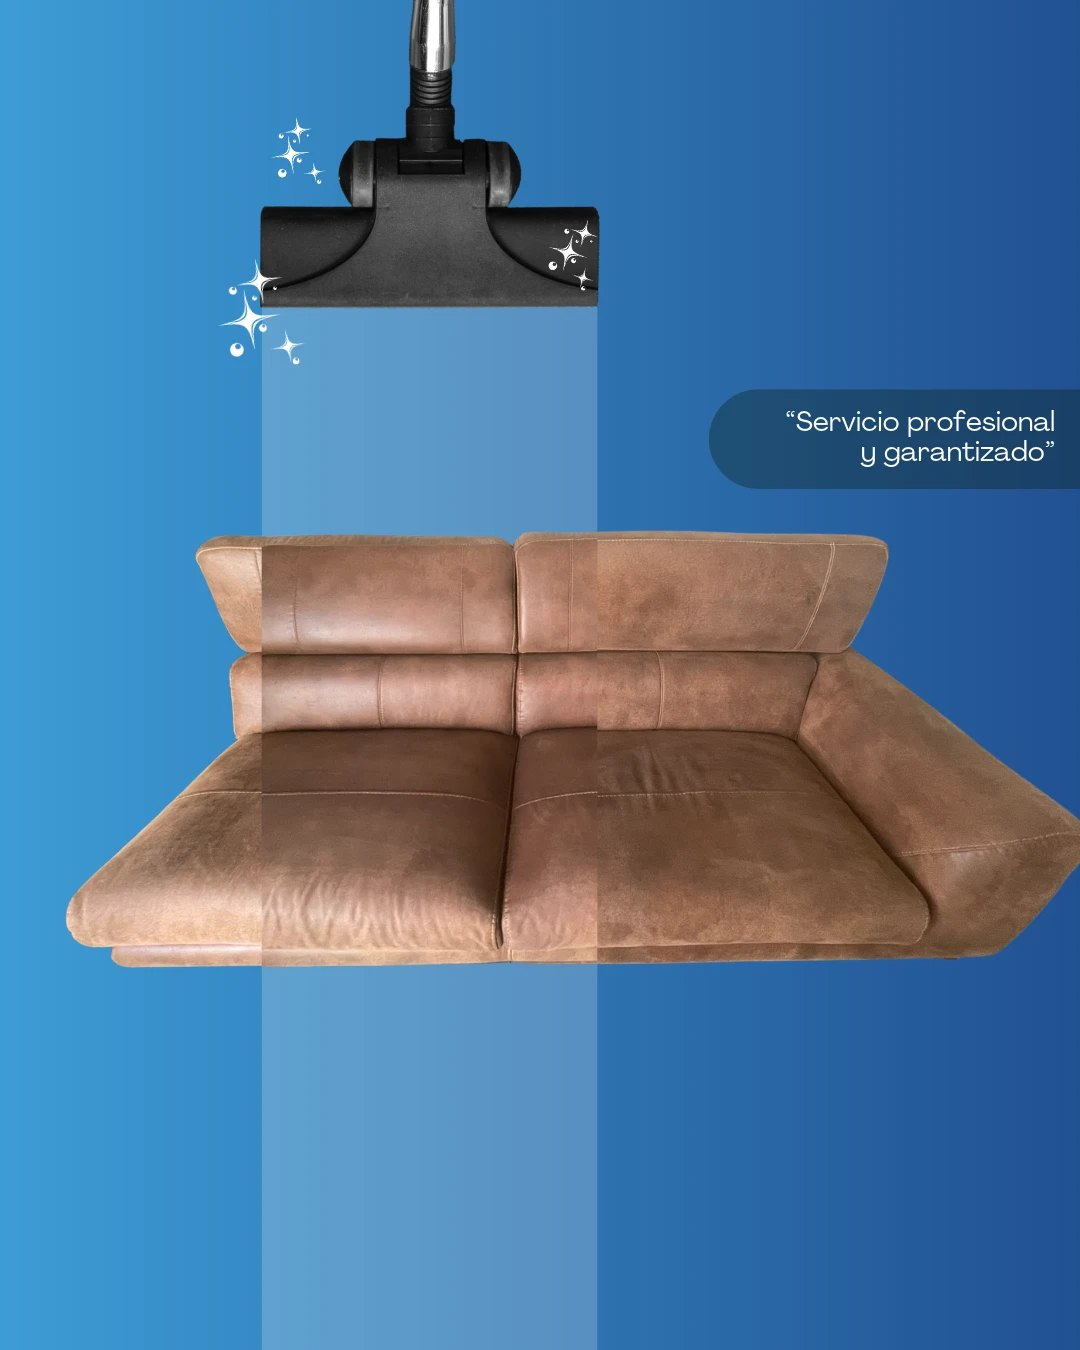
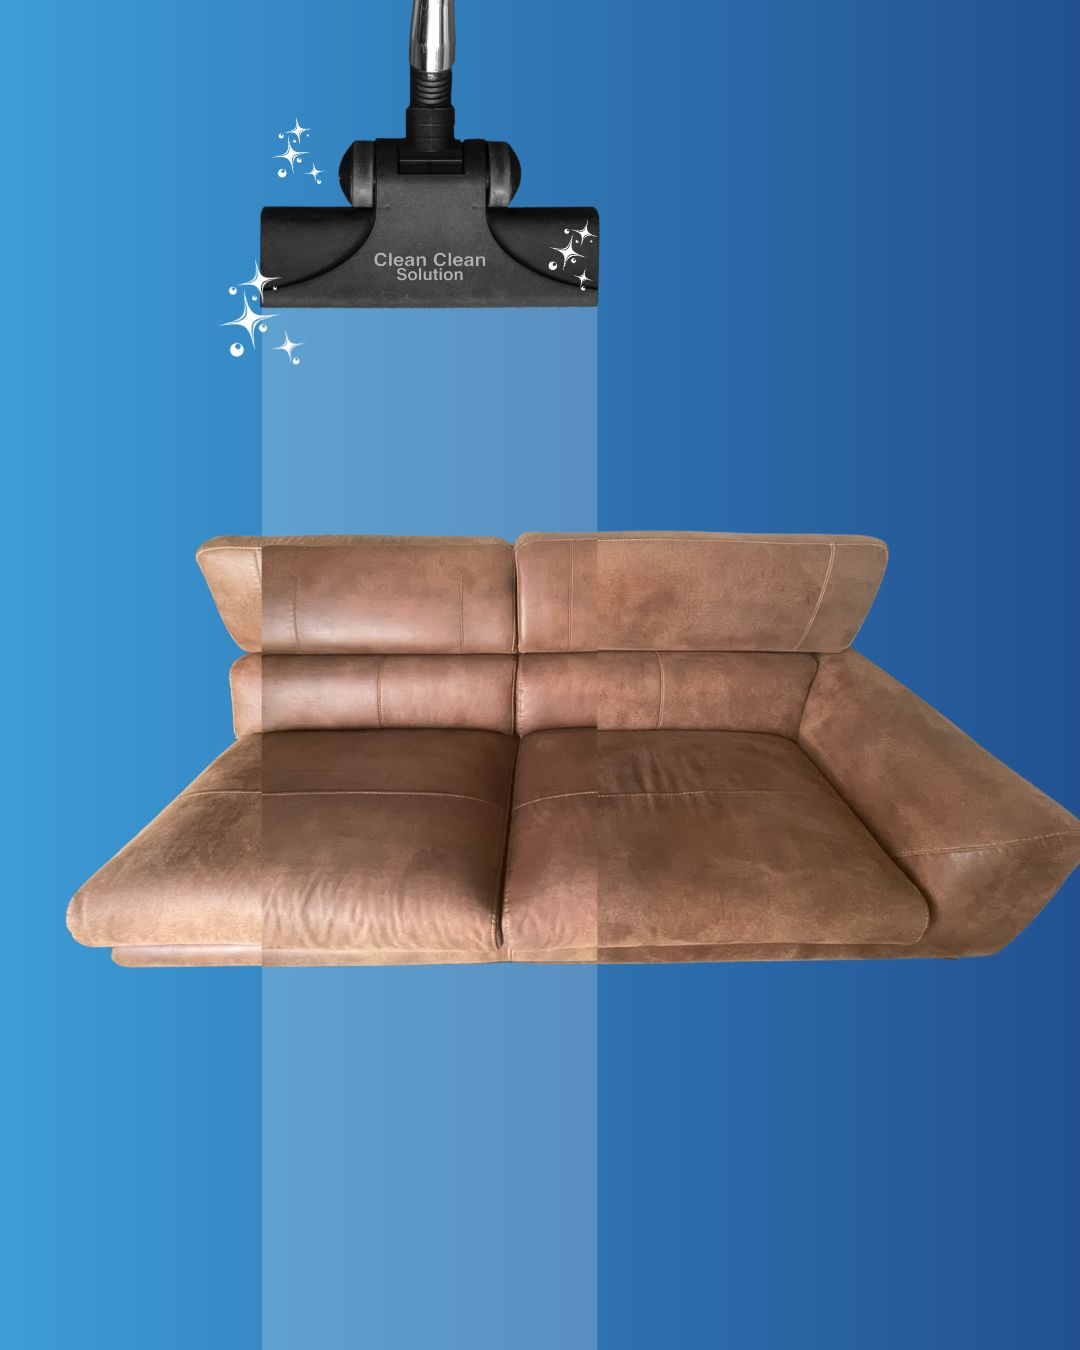
Convierte la imagen del hero en un carrusel de tres fotos que cambia cada 15 segundos
Incluye puntos de navegacion, boton de pausa, pausa al pasar el mouse o con la pestana oculta, y gesto de deslizar en celular.

Changed region(s): [[0.6417, 0.28, 1.0, 0.3733], [0.3667, 0.1867, 0.4583, 0.2178]]

diff --git a/index.html b/index.html
@@ -47,7 +47,7 @@
   <link href="https://fonts.googleapis.com/css2?family=Inter:wght@400;500;600&family=Montserrat:wght@700;800&display=swap" rel="stylesheet">
 
   <!-- Estilos (cambia el número de versión cada vez que edites el archivo) -->
-  <link rel="stylesheet" href="css/styles.css?v=1.0.4">
+  <link rel="stylesheet" href="css/styles.css?v=1.0.5">
 
   <!-- Datos estructurados: negocio local -->
   <script type="application/ld+json">
@@ -356,6 +356,12 @@
       <path d="M9 17h6"/>
       <circle cx="17" cy="17" r="2"/>
     </symbol>
+    <symbol id="i-pause" viewBox="0 0 24 24">
+      <path d="M8 5v14"/><path d="M16 5v14"/>
+    </symbol>
+    <symbol id="i-play" viewBox="0 0 24 24">
+      <path d="m7 4 13 8-13 8z"/>
+    </symbol>
     <symbol id="i-tiktok" viewBox="0 0 24 24">
       <path d="M9 12a4 4 0 1 0 4 4V3a5 5 0 0 0 5 5"/>
     </symbol>
@@ -457,15 +463,42 @@
         </div>
 
         <figure class="hero__media">
-          <div class="hero__frame">
-            <!-- Ilustración de respaldo: queda oculta detrás de la foto real -->
+          <div class="hero__frame hero-slider" data-slider data-interval="15000"
+               role="group" aria-roledescription="carrusel" aria-label="Resultados de lavado de Clean Clean Solution">
+            <!-- Ilustración de respaldo: queda oculta detrás de las fotos reales -->
             <div class="hero__art" aria-hidden="true">
               <svg viewBox="0 0 400 300"><use href="#art-sofa"/></svg>
             </div>
-            <!-- FOTO HERO: assets/img/hero-servicio.jpg (vertical 4:5, 1080 x 1350 px) -->
-            <img src="assets/img/hero-servicio.jpg" width="1080" height="1350"
-                 alt="Sofá de piel con una franja limpia bajo la boquilla de lavado: servicio profesional y garantizado de Clean Clean Solution"
-                 fetchpriority="high" decoding="async" data-fallback>
+
+            <!-- DIAPOSITIVAS (vertical 4:5, 1080 x 1350 px). Para agregar otra, duplica un bloque
+                 .slide con su foto y suma un punto en .slider__dots. Cambian cada 15 segundos. -->
+            <div class="slide is-active" role="group" aria-roledescription="diapositiva" aria-label="1 de 3">
+              <img src="assets/img/hero-servicio.jpg" width="1080" height="1350"
+                   alt="Sofá de piel con una franja recién lavada bajo la boquilla de aspirado de Clean Clean Solution"
+                   fetchpriority="high" decoding="async" data-fallback>
+            </div>
+            <div class="slide" role="group" aria-roledescription="diapositiva" aria-label="2 de 3">
+              <img src="assets/img/hero-2.jpg" width="1080" height="1350"
+                   alt="Sillón de tela gris con una franja limpia donde pasó la boquilla de lavado, junto a la zona sin lavar"
+                   loading="lazy" decoding="async">
+            </div>
+            <div class="slide" role="group" aria-roledescription="diapositiva" aria-label="3 de 3">
+              <img src="assets/img/hero-3.jpg" width="1080" height="1350"
+                   alt="Colchón con una franja limpia y blanca que contrasta con las manchas del resto de la superficie"
+                   loading="lazy" decoding="async">
+            </div>
+
+            <div class="slider__controls">
+              <div class="slider__dots" role="group" aria-label="Elegir foto">
+                <button class="slider__dot is-active" type="button" aria-label="Ver foto 1 de 3" aria-current="true"></button>
+                <button class="slider__dot" type="button" aria-label="Ver foto 2 de 3"></button>
+                <button class="slider__dot" type="button" aria-label="Ver foto 3 de 3"></button>
+              </div>
+              <button class="slider__pause" type="button" aria-label="Pausar presentación">
+                <svg class="icon slider__icon-pause" aria-hidden="true"><use href="#i-pause"/></svg>
+                <svg class="icon slider__icon-play" aria-hidden="true"><use href="#i-play"/></svg>
+              </button>
+            </div>
           </div>
 
           <figcaption class="float-card float-card--a">
@@ -1188,6 +1221,6 @@
   </a>
 
   <!-- Scripts (cambia el número de versión cada vez que edites el archivo) -->
-  <script src="js/script.js?v=1.0.1" defer></script>
+  <script src="js/script.js?v=1.0.2" defer></script>
 </body>
 </html>

diff --git a/js/script.js b/js/script.js
@@ -491,4 +491,100 @@
      ------------------------------------------------------------------------ */
   var yearNode = document.getElementById('year');
   if (yearNode) { yearNode.textContent = String(new Date().getFullYear()); }
+
+  /* ------------------------------------------------------------------------
+     10. Carrusel del hero
+     Cambia de foto cada 15 segundos (data-interval). Se detiene al pasar el
+     mouse o al enfocar un control, cuando la pestaña no está visible o si la
+     persona lo pausa. Con "reducir movimiento" activado no avanza solo.
+     ------------------------------------------------------------------------ */
+  toArray(document.querySelectorAll('[data-slider]')).forEach(function (slider) {
+    var slides = toArray(slider.querySelectorAll('.slide'));
+    var dots = toArray(slider.querySelectorAll('.slider__dot'));
+    var pauseButton = slider.querySelector('.slider__pause');
+    var interval = parseInt(slider.getAttribute('data-interval'), 10) || 15000;
+    var current = 0;
+    var timer = null;
+    var userPaused = prefersReducedMotion;
+    var hovering = false;
+    var focusing = false;
+
+    if (slides.length < 2) {
+      var controls = slider.querySelector('.slider__controls');
+      if (controls) { controls.hidden = true; }
+      return;
+    }
+
+    function isRunning() {
+      return !userPaused && !hovering && !focusing && !document.hidden;
+    }
+
+    function stop() {
+      if (timer) { window.clearTimeout(timer); timer = null; }
+    }
+
+    function schedule() {
+      stop();
+      if (isRunning()) {
+        timer = window.setTimeout(function () { show(current + 1, false); }, interval);
+      }
+    }
+
+    function show(index, fromUser) {
+      current = (index + slides.length) % slides.length;
+      slides.forEach(function (slide, i) {
+        slide.classList.toggle('is-active', i === current);
+        slide.setAttribute('aria-hidden', i === current ? 'false' : 'true');
+      });
+      dots.forEach(function (dot, i) {
+        dot.classList.toggle('is-active', i === current);
+        if (i === current) { dot.setAttribute('aria-current', 'true'); } else { dot.removeAttribute('aria-current'); }
+      });
+      schedule();
+    }
+
+    function setPaused(paused) {
+      userPaused = paused;
+      slider.classList.toggle('is-paused', paused);
+      if (pauseButton) {
+        pauseButton.setAttribute('aria-label', paused ? 'Reanudar presentación' : 'Pausar presentación');
+      }
+      slider.setAttribute('aria-live', paused ? 'polite' : 'off');
+      schedule();
+    }
+
+    dots.forEach(function (dot, i) {
+      dot.addEventListener('click', function () { show(i, true); });
+    });
+
+    if (pauseButton) {
+      pauseButton.addEventListener('click', function () { setPaused(!userPaused); });
+    }
+
+    slider.addEventListener('mouseenter', function () { hovering = true; stop(); });
+    slider.addEventListener('mouseleave', function () { hovering = false; schedule(); });
+    slider.addEventListener('focusin', function () { focusing = true; stop(); });
+    slider.addEventListener('focusout', function () { focusing = false; schedule(); });
+    document.addEventListener('visibilitychange', schedule);
+
+    /* Deslizar con el dedo para cambiar de foto */
+    var startX = null;
+    slider.addEventListener('pointerdown', function (event) {
+      if (event.pointerType === 'mouse' || event.target.closest('.slider__controls')) { return; }
+      startX = event.clientX;
+    });
+    slider.addEventListener('pointerup', function (event) {
+      if (startX === null) { return; }
+      var delta = event.clientX - startX;
+      startX = null;
+      if (Math.abs(delta) > 40) { show(current + (delta < 0 ? 1 : -1), true); }
+    });
+    slider.addEventListener('pointercancel', function () { startX = null; });
+
+    slides.forEach(function (slide, i) {
+      slide.setAttribute('aria-hidden', i === current ? 'false' : 'true');
+    });
+    setPaused(userPaused);
+    show(0, false);
+  });
 })();

diff --git a/css/styles.css b/css/styles.css
@@ -637,6 +637,76 @@ strong { font-weight: 600; }
 }
 .hero__art svg { width: 78%; height: auto; }
 
+/* Carrusel del hero: las fotos cambian con un fundido suave */
+.slide {
+  position: absolute;
+  inset: 0;
+  opacity: 0;
+  visibility: hidden;
+  transition: opacity .9s ease, visibility 0s linear .9s;
+}
+.slide.is-active {
+  opacity: 1;
+  visibility: visible;
+  transition: opacity .9s ease, visibility 0s;
+}
+
+.slider__controls {
+  position: absolute;
+  top: .85rem;
+  left: .85rem;
+  z-index: 3;
+  display: flex;
+  align-items: center;
+  gap: .15rem;
+  padding: .2rem .3rem .2rem .55rem;
+  border-radius: 999px;
+  background: rgba(15, 41, 46, .55);
+  -webkit-backdrop-filter: blur(6px);
+  backdrop-filter: blur(6px);
+}
+.slider__dots { display: flex; align-items: center; }
+.slider__dot {
+  display: grid;
+  place-items: center;
+  width: 24px;
+  height: 32px;
+  padding: 0;
+  border: 0;
+  background: none;
+  cursor: pointer;
+}
+.slider__dot::before {
+  content: "";
+  width: 8px;
+  height: 8px;
+  border-radius: 999px;
+  background: rgba(255, 255, 255, .55);
+  transition: width .3s ease, background-color .3s ease;
+}
+.slider__dot:hover::before { background: var(--white); }
+.slider__dot.is-active::before { width: 20px; background: var(--white); }
+.slider__pause {
+  display: grid;
+  place-items: center;
+  width: 32px;
+  height: 32px;
+  padding: 0;
+  border: 0;
+  border-radius: 50%;
+  background: none;
+  color: var(--white);
+  cursor: pointer;
+  transition: background-color .2s ease;
+}
+.slider__pause:hover { background: rgba(255, 255, 255, .18); }
+.slider__pause .icon { width: 16px; height: 16px; }
+.slider__icon-play { display: none; }
+.hero-slider.is-paused .slider__icon-pause { display: none; }
+.hero-slider.is-paused .slider__icon-play { display: block; }
+.slider__dot:focus-visible,
+.slider__pause:focus-visible { outline-color: var(--white); }
+
 .float-card {
   position: absolute;
   display: flex;
